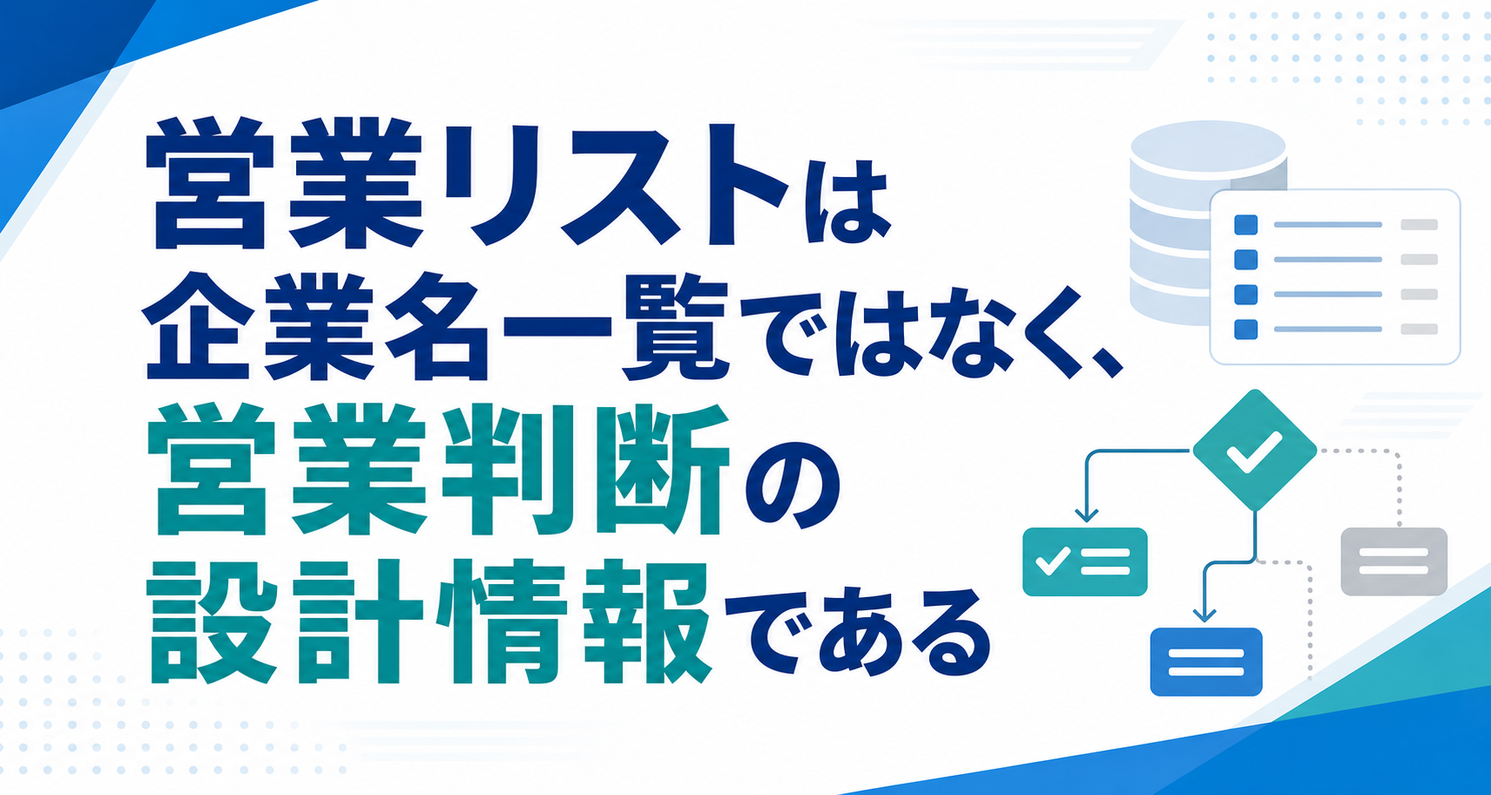
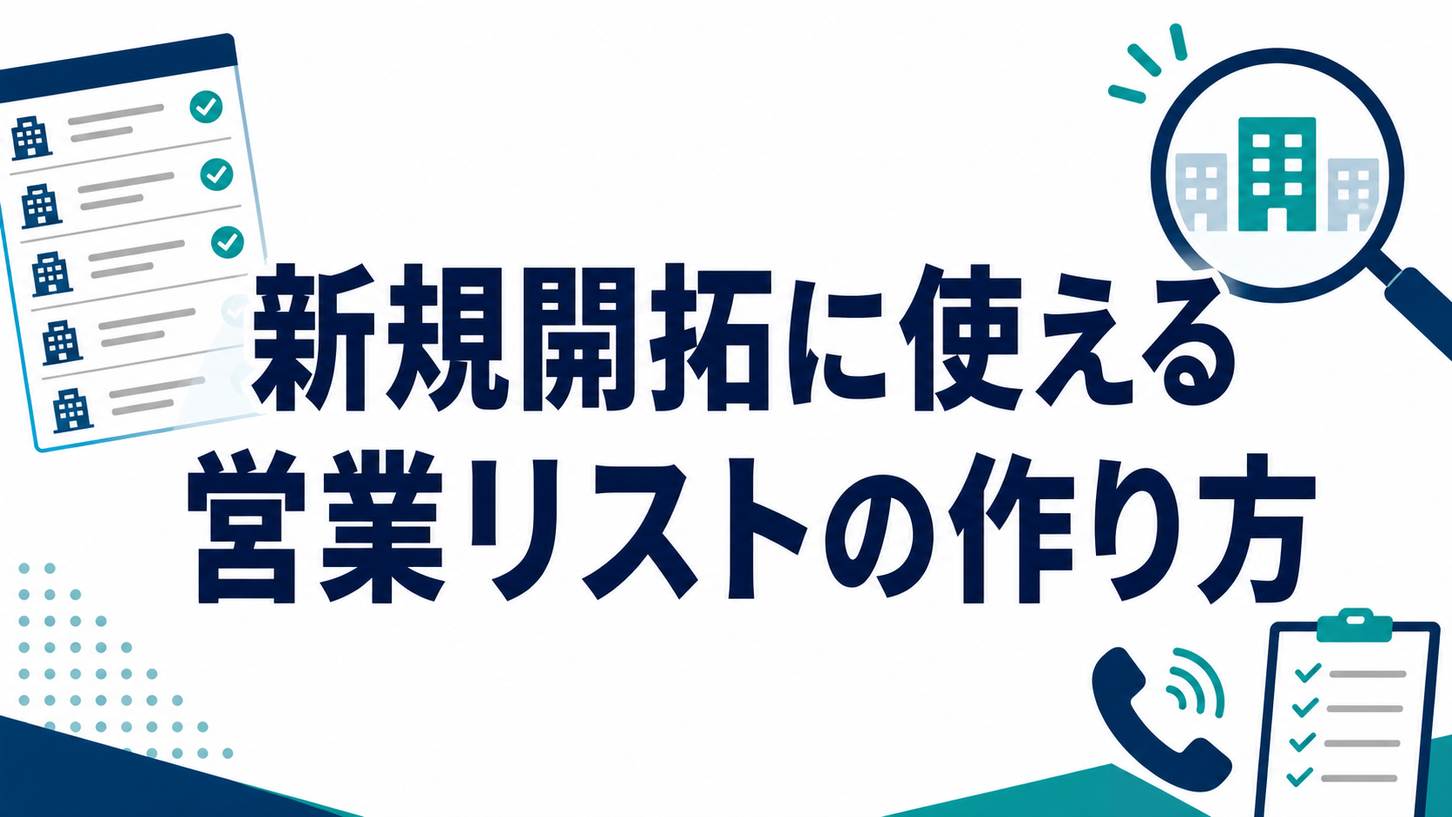
Update sales list article

diff --git a/010_営業リスト/07_最終版.html b/010_営業リスト/07_最終版.html
@@ -1,24 +1,24 @@
-<!doctype html>
+<!doctype html>
 <html lang="ja">
 <head>
   <meta charset="utf-8">
   <meta name="viewport" content="width=device-width, initial-scale=1">
   <meta name="robots" content="noindex,nofollow">
-  <title>営業リストは企業名一覧ではなく、営業判断の設計情報である</title>
+  <title>新規開拓に使える営業リストの作り方。必要項目と情報収集方法を解説</title>
   <style>
     :root { color-scheme: light; }
     body { margin: 0; background: #f6f7f9; color: #1f2933; font-family: -apple-system, BlinkMacSystemFont, "Segoe UI", sans-serif; line-height: 1.9; }
     main { max-width: 760px; margin: 0 auto; padding: 48px 20px 72px; background: #fff; min-height: 100vh; box-sizing: border-box; }
     article { width: 100%; }
-    h1 { font-size: 30px; line-height: 1.45; margin: 0 0 32px; letter-spacing: 0; color: #111827; }
+    h1 { font-size: 30px; line-height: 1.45; margin: 0 0 28px; letter-spacing: 0; color: #111827; }
     h2 { font-size: 24px; line-height: 1.55; margin: 52px 0 18px; letter-spacing: 0; color: #111827; }
     h3 { font-size: 18px; line-height: 1.6; margin: 32px 0 12px; letter-spacing: 0; color: #111827; }
     p { margin: 0 0 18px; }
     ul, ol { margin: 0 0 24px 1.4em; padding: 0; }
     li { margin: 0 0 8px; }
     a { color: #0f66d0; overflow-wrap: anywhere; }
-    img { display: block; height: auto; max-width: 100%; margin: 28px auto; border: 0; }
-    article > p:first-child img { margin-top: 0; margin-bottom: 34px; }
+    img { display: block; width: auto; height: auto; max-width: 100%; margin: 28px auto; border: 0; }
+    article > p:first-of-type img { margin-top: 0; margin-bottom: 34px; }
     @media (max-width: 640px) {
       main { padding: 28px 16px 56px; }
       h1 { font-size: 24px; }
@@ -30,163 +30,122 @@
 <body>
   <main>
     <article>
-      <h1>営業リストは企業名一覧ではなく、営業判断の設計情報である</h1>
-<p><img src="画像/アイキャッチ.png" alt="営業リストは企業名一覧ではなく、営業判断の設計情報である"></p>
+      <h1>新規開拓に使える営業リストの作り方。必要項目と情報収集方法を解説</h1>
+<p><img src="画像/アイキャッチ.png" alt="新規開拓に使える営業リストの作り方。必要項目と情報収集方法を解説"></p>
 <p>みなさんこんにちは、Valorize AI代表の鈴木創也です。</p>
-<p>営業リストを作ったのに、営業活動に活かしきれていない。</p>
-<p>この悩みは、単にリストの件数が足りないから起きているわけではありません。企業名や電話番号を集めても、誰に、なぜ、どの順番で、どの文脈で接触するのかが決まっていなければ、営業担当者は結局、一件ずつ手探りで判断することになります。</p>
-<p>営業リストは、企業名を並べた一覧ではありません。本来は、次の営業判断を支えるための設計情報です。</p>
-<p>この記事では、営業リストとは何か、作成前に何を決めるべきか、どの項目を持つべきか、情報収集と管理で何に注意すべきかを整理します。最後には、営業リストを「作って終わり」にせず、営業判断に使える状態へ近づける考え方までお伝えします。</p>
+<p>営業リストは、件数を増やせば新規開拓の成果につながるものではありません。ターゲット条件が曖昧なまま企業を集めると、架電件数を増やしても、商材の対象外となる企業への連絡が増えてしまいます。</p>
+<p>反対に、精度を求めて一社ずつ詳しく調査してからリストへ追加していると、準備に時間を取られ、営業を始めるまでが長くなります。新規開拓用の営業リストでは、ターゲット条件を具体化し、必要な連絡先をそろえ、営業を開始できる状態まで短時間で仕上げることが重要です。</p>
+<p>この記事では、新規開拓で使う営業リストについて、作成前に決める条件、必要な項目、具体的な作り方、情報収集方法、作成後の管理・運用まで解説します。</p>
 <h2>営業リストとは</h2>
-<p>営業リストとは、新規開拓や既存顧客への追加提案などで、営業先候補を管理するための一覧です。</p>
-<p>一般的には、企業名、所在地、電話番号、Webサイト、担当部署、担当者名、メールアドレスなどをまとめたものを指します。テレアポで使う場合もあれば、問い合わせフォーム経由のアプローチ、インサイドセールス、展示会後のフォロー、休眠顧客の掘り起こしなどで使う場合もあります。</p>
-<p>近い言葉として、見込み客リスト、アタックリスト、顧客リストという表現もあります。厳密な使い分けは会社によって異なりますが、営業活動で「次に接触すべき相手」を整理するための情報群だと考えると分かりやすいです。</p>
-<p>ただし、営業リストを企業名と連絡先だけの表として扱うと、すぐに限界が来ます。</p>
-<p>たとえば、同じ業界の企業が100社並んでいても、どの企業から連絡すべきか、どの課題仮説で話すべきか、過去に接触したことがあるのか、今メールを送ってよい状態なのかが分からなければ、営業判断には使いにくいままです。</p>
-<p>営業リストは、作ること自体が目的ではありません。次の営業アクションを判断できる状態にして初めて意味があります。</p>
-<h2>営業リストが必要な理由と、作っても成果につながらない原因</h2>
-<p>営業リストが必要とされる理由は、大きく三つあります。</p>
+<p>営業リストとは、新規開拓で連絡する企業の情報をまとめた一覧です。企業名、電話番号、所在地、公式サイトURLなどを記載し、営業担当者が架電やメール送信に利用します。「見込み客リスト」や「アタックリスト」と呼ばれることもあります。</p>
+<p>営業リストと顧客管理リストは、利用する段階が異なります。営業リストは、まだ取引のない企業へ新規営業を行うためのものです。顧客管理リストは、商談中の企業や既存顧客について、商談履歴、契約内容、対応状況などを管理するために使います。</p>
+<p>新規開拓用の営業リストを作る目的は、営業担当者が毎回営業先を探さなくても、すぐに連絡を始められる状態を作ることです。そのため、企業情報を多く載せることよりも、対象企業が一定の条件で抽出され、利用する営業手段に必要な連絡先がそろっていることが重要です。</p>
+<h2>営業リストを作成するメリット</h2>
+<p>営業リストを用意すると、営業担当者が各自で営業先を探す必要がなくなり、チームで同じ対象企業へ効率よくアプローチできます。主なメリットは次の4つです。</p>
 <ul>
-<li>営業先を探す時間を減らし、接触活動に時間を使いやすくするため</li>
-<li>営業担当者ごとの情報を会社として共有しやすくするため</li>
-<li>接触履歴や反応を蓄積し、次の営業活動に活かすため</li>
+<li>営業先を一件ずつ探す時間を減らせる</li>
+<li>複数の営業担当者で対象企業を共有できる</li>
+<li>架電結果や接触履歴を蓄積できる</li>
+<li>ターゲット条件ごとの接続率やアポ率を比較できる</li>
 </ul>
-<p>営業先候補が毎回ばらばらに探されていると、担当者によって狙う企業が変わり、営業活動の振り返りも難しくなります。営業リストがあれば、少なくとも「誰に対して営業するのか」という土台をそろえられます。</p>
-<p>一方で、営業リストを作っても成果につながりにくいケースもあります。</p>
-<p>よくあるのは、次のような状態です。</p>
-<ul>
-<li>ターゲット条件が曖昧なまま企業名だけを集めている</li>
-<li>古い情報や重複した企業が残っている</li>
-<li>担当者ごとに入力項目や表記が違う</li>
-<li>受注確度や温度感の基準が人によって違う</li>
-<li>接触履歴が残っておらず、同じ企業へ重複して連絡してしまう</li>
-<li>営業リストの更新担当や更新タイミングが決まっていない</li>
-</ul>
-<p>この状態では、件数が多くても営業担当者の判断負荷は下がりません。むしろ、どの情報を信じればよいか分からず、確認工数が増えることもあります。</p>
-<p>営業リストの問題は、企業数の不足だけではありません。誰を優先し、どう接触し、どう更新するかが決まっていないことにあります。</p>
+<p>営業先と連絡先が並んでいれば、営業担当者は企業検索ではなく架電に時間を使えます。</p>
+<p>さらに、架電結果を同じリストへ記録すれば、「不通」「担当者不在」「再架電」「アポ獲得」といった状況を共有できます。業種や地域などの抽出条件も残しておけば、どの企業群で接続率やアポ率が高かったかを後から比較できます。</p>
 <h2>営業リストを作る前に決めること</h2>
-<p>営業リスト作成では、情報収集を始める前に決めるべきことがあります。</p>
-<p>先に設計しておきたいのは、営業戦略、ターゲット条件、必要件数、接触チャネル、必要項目です。</p>
-<h3>営業戦略</h3>
-<p>まず、何のために営業リストを作るのかを決めます。</p>
-<p>新規商談を増やしたいのか、特定業界を開拓したいのか、既存顧客に追加提案したいのか、展示会後のフォローを効率化したいのか。目的によって、必要な企業情報も接触方法も変わります。</p>
-<p>営業戦略が曖昧なままリストを作ると、後から「この企業は本当に対象なのか」という確認が増えます。</p>
-<h3>ターゲット条件</h3>
-<p>次に、どのような企業を対象にするのかを決めます。</p>
-<p>業種、地域、従業員規模、売上規模、利用中のサービス、拠点数、採用状況、組織課題など、商材によって見るべき条件は変わります。</p>
-<p>このとき大事なのは、対象条件だけでなく、除外条件も決めることです。対象外の企業までリストに入ると、営業担当者が一件ずつ確認しなければならなくなります。</p>
-<h3>必要件数</h3>
-<p>必要件数は、多ければよいとは限りません。</p>
-<p>商談化までの歩留まり、営業担当者の稼働、接触チャネル、フォロー回数を考えずに大量のリストを作っても、運用しきれない可能性があります。</p>
-<p>営業リストの件数は、営業活動で処理できる量と、検証したいターゲット仮説の範囲から決めるのが現実的です。</p>
-<h3>接触チャネル</h3>
-<p>電話、メール、問い合わせフォーム、SNS、紹介、展示会後フォローなど、接触チャネルによって必要な項目と注意点は変わります。</p>
-<p>メール営業であれば、メールアドレスだけでなく、送信拒否への対応や表示義務の確認が必要になります。電話であれば代表番号、部署番号、受付突破のための仮説が必要になるかもしれません。</p>
-<p>接触チャネルを決めずにリストを作ると、後から必要な項目が足りないことに気づきやすくなります。</p>
-<h3>必要項目</h3>
-<p>最後に、営業リストに入れる項目を決めます。</p>
-<p>企業名、所在地、電話番号だけで十分なのか。担当部署、担当者名、業種、規模、課題仮説、接触履歴、受注確度、優先順位まで持つのか。ここを決めずに収集を始めると、入力項目が人によってばらつきます。</p>
-<p>リスト作成前の設計が曖昧なまま情報収集を始めると、営業に使えない名簿が増えるだけになります。</p>
-<h2>営業リストに入れる項目</h2>
-<p><img src="画像/本文画像_01.png" alt="営業リストの情報項目を整理したイメージ"></p>
-<p>BtoB営業の営業リストは、項目を四つに分けると整理しやすくなります。</p>
+<p>情報を集め始める前に、営業手段、ターゲット条件、除外条件、必要件数の4点を決めます。この4点が決まれば、集めるべき情報と使う情報源が明確になります。</p>
+<h3>1. 営業手段</h3>
+<p>電話、メール、郵送など、営業リストを何に使うかを決めます。電話営業なら電話番号、メール営業ならメールアドレスが必要です。</p>
+<h3>2. ターゲット条件</h3>
+<p>どの企業へ営業するかを、情報収集時に検索できる条件へ落とし込みます。代表的な条件は、業種、地域、事業内容です。商材によって対象が変わる場合は、従業員数、売上高、拠点数なども使います。</p>
+<p>条件は「成長企業」や「営業に困っている企業」のような曖昧な表現ではなく、「東京都の法人向けIT企業」「関東に3店舗以上を展開する事業者」のように、抽出できる形で定めます。</p>
+<h3>3. 除外条件</h3>
+<p>既存顧客、競合企業、対象外地域など、営業しない企業の条件を決めます。先に除外条件を用意すれば、作成後の確認作業を減らせます。</p>
+<h3>4. 必要件数</h3>
+<p>必要件数は、営業担当者数と一定期間に連絡できる件数から逆算します。たとえば、1人が1日50件、5営業日架電するなら、1人あたり250件が目安です。複数回の架電や不通を見込む場合は、その運用方法も考慮します。</p>
+<p>作成前に、誰に、どの手段で、何件営業するかを明確にしておけば、必要な情報だけを集めて営業リストを作成できます。</p>
+<h2>営業リストに必要な項目</h2>
+<p>営業リストの項目は、多ければよいわけではありません。作成時に必要な項目、営業開始後に記録する項目、商材によって追加する項目に分けると、入力作業を増やしすぎずに済みます。</p>
+<h3>作成時に最低限入れる項目</h3>
 <ul>
-<li>法人を識別する項目</li>
-<li>接触するための項目</li>
-<li>営業判断のための項目</li>
-<li>運用管理のための項目</li>
+<li>企業名</li>
+<li>電話番号、メールアドレスなど営業手段に必要な連絡先</li>
+<li>所在地</li>
+<li>公式サイトURL</li>
+<li>抽出に使った業種、地域などの条件</li>
 </ul>
-<h3>法人を識別する項目</h3>
-<p>法人を識別する項目は、企業を正しく特定するための情報です。</p>
-<p>たとえば、法人番号、商号または名称、所在地、WebサイトURL、業種、拠点情報などです。</p>
-<p>国税庁の法人番号公表サイトでは、法人番号、商号又は名称、本店又は主たる事務所の所在地などを確認できます。法人番号は、名寄せや重複確認、所在地変更の確認などで土台になり得る情報です。</p>
-<p>国税庁 法人番号公表サイト「法人番号とは」</p>
-<p><a href="https://www.houjin-bangou.nta.go.jp/setsumei/">https://www.houjin-bangou.nta.go.jp/setsumei/</a></p>
-<p>ただし、法人番号公表サイトで分かるのは法人の基本情報です。担当者名、部署、メールアドレス、課題、導入可能性、受注確度まで確認できるわけではありません。</p>
-<h3>接触するための項目</h3>
-<p>接触するための項目は、実際にアプローチするための情報です。</p>
-<p>代表電話、部署電話、問い合わせフォームURL、メールアドレス、担当部署、担当者名、役職、SNSアカウントなどが候補になります。</p>
-<p>ここでは、単に連絡先を集めるだけでなく、どのチャネルで接触するのかを意識する必要があります。問い合わせフォーム経由のアプローチであればフォームURLが重要ですし、電話営業であれば代表番号だけでなく、受付でどの部署につないでもらうかの仮説も必要です。</p>
-<h3>営業判断のための項目</h3>
-<p>営業判断のための項目は、どの企業を優先するか、どの文脈で接触するかを決めるための情報です。</p>
-<p>たとえば、ターゲット条件への適合度、想定課題、利用中のサービス、採用状況、資金調達、事業拡大の兆候、過去反応、受注確度、優先順位などです。</p>
-<p>この項目がないと、営業担当者は企業名を見てから毎回調査し、判断することになります。営業リストを営業判断に使うためには、この層の情報が重要です。</p>
-<h3>運用管理のための項目</h3>
-<p>運用管理のための項目は、リストを継続的に使うための情報です。</p>
-<p>担当者、作成日、更新日、情報源、接触履歴、ステータス、次回アクション、重複確認状況、送信拒否や配信停止の状況などが該当します。</p>
-<p>特に、営業リストに個人名、担当者メール、名刺情報、Web行動データなどを含める場合は、取得元、利用目的、更新、安全管理の確認が必要になります。</p>
-<p>公式情報で整えられる法人情報と、自社で設計すべき営業判断情報を分けて持つことが、使える営業リストの前提になります。</p>
+<p>抽出条件は、「IT・東京都」「飲食・関東・3店舗以上」のように、どの条件で作成した企業群かを識別できる形で残します。営業結果を条件別に比較し、次回の抽出条件を見直す際に利用できます。</p>
+<h3>営業開始後に記録する項目</h3>
+<ul>
+<li>架電日や送信日</li>
+<li>架電結果や送信結果</li>
+<li>判明した担当者名・部署</li>
+<li>再架電予定日</li>
+<li>次の担当者への申し送り事項</li>
+</ul>
+<p>担当者名や部署が事前に取得できない場合は、空欄のまま架電を開始し、会話の中で判明した情報を追加します。全企業の担当者を事前に調査してから営業を始める必要はありません。</p>
+<h3>商材によって追加する項目</h3>
+<ul>
+<li>従業員数</li>
+<li>売上高</li>
+<li>資本金</li>
+<li>拠点数</li>
+<li>設立年</li>
+</ul>
+<p>これらは、ターゲット条件として必要な場合に追加します。営業に使わない項目まで埋めず、抽出または営業結果の分析に使う項目だけを残します。</p>
+<h2>営業リストの作り方</h2>
+<p>新規営業リストは、条件を決め、必要な企業情報をまとめて取得し、対象外企業を除けば完成します。実務では次の4工程で作成します。</p>
+<p><img src="画像/本文画像_01.png" alt="ターゲット条件から企業情報と連絡先を整理して営業リストを作成する流れ"></p>
+<h3>1. ターゲット条件と必要件数を決める</h3>
+<p>業種、地域、事業内容などのターゲット条件と、既存顧客や競合などの除外条件を決めます。同時に、営業担当者が一定期間で対応できる件数から必要件数を算出します。</p>
+<h3>2. 情報収集方法を選ぶ</h3>
+<p>必要な企業の種類と件数に合う情報源を選びます。特定業界の企業を少数集めるなら業界団体や企業一覧サイト、数百社以上を条件検索するなら法人データベースや営業リスト作成ツールが候補になります。</p>
+<h3>3. 企業情報と連絡先を収集する</h3>
+<p>企業名に加え、架電に使う電話番号や公式サイトURLも取得します。複数の情報源を使う場合は、企業名の正式な商号を維持し、電話番号や住所、URLなどの入力形式をそろえて一つのリストへまとめます。</p>
+<h3>4. 重複企業と対象外企業を除く</h3>
+<p>同じ企業が複数行に入っていないかを確認し、既存顧客、競合企業、対象外地域などを除外します。最後に電話番号の欠落や明らかな誤記を確認すれば、架電を開始できます。</p>
+<p>たとえば、「東京都に所在する法人向けIT企業を500社」という条件で作る場合は、電話番号と公式サイトURLがある企業を取得し、既存顧客と競合を除きます。残った企業に連番を付ければ、営業担当者は上から順に架電できます。</p>
+<p>全企業の詳細調査や精密な順位付けは行わず、まず営業できる状態までまとめます。実際の架電結果は次回の条件設定に反映します。</p>
 <h2>営業リストの情報収集方法</h2>
-<p>営業リストの情報収集方法は、無料収集、有料購入、ツール活用、自社データ活用に分けられます。</p>
-<p>どれが絶対に優れているという話ではありません。費用、工数、鮮度、利用範囲、ターゲット適合性、法務・プライバシー上の確認事項がそれぞれ違います。</p>
-<h3>無料収集</h3>
-<p>無料収集では、企業サイト、法人番号公表サイト、業界団体サイト、展示会出展社一覧、セミナー参加情報、求人サイト、SNS、ニュース記事などを確認してリスト化します。</p>
-<p>費用を抑えやすく、自社のターゲット条件に合わせて調べやすい点が利点です。一方で、収集工数がかかり、情報の抜け漏れや表記ゆれ、更新漏れが起きやすくなります。</p>
-<p>無料で集めた情報でも、取得元、利用目的、更新方法は明確にしておく必要があります。</p>
-<h3>有料購入</h3>
-<p>有料購入では、企業データベースや営業リスト販売サービスから、条件に合う企業情報を取得します。</p>
-<p>短時間で一定件数を集めやすい一方で、件数や価格だけで判断するのは危険です。取得元、更新頻度、利用可能範囲、第三者提供に関する扱い、自社ターゲットとの適合性、重複の有無を確認する必要があります。</p>
-<p>有料だから必ず高品質とも、購入すればそのまま営業に使えるとも限りません。</p>
-<h3>ツール活用</h3>
-<p>営業リスト作成ツールやCRM/SFAは、企業情報の検索、抽出、更新、管理、重複確認を助ける手段になります。</p>
-<p>ただし、ツールはターゲット定義や営業判断を自動で完成させるものではありません。どの条件で抽出するのか、どの企業を優先するのか、どの情報を営業担当者に渡すのかは、自社側で設計する必要があります。</p>
-<p>ツールは、情報収集と管理の負荷を下げる手段として考えるのが現実的です。</p>
-<h3>自社データ活用</h3>
-<p>自社データには、名刺、問い合わせ履歴、資料請求、過去商談、展示会での接点、既存顧客情報、休眠顧客情報などがあります。</p>
-<p>自社データの強みは、過去の接触履歴や反応を含められることです。一方で、部署ごとに管理形式が違う、古い情報が残っている、利用目的が整理されていない、名寄せされていないといった課題が出やすくなります。</p>
-<p>個人情報を含むデータを扱う場合は、個人情報保護委員会のガイドラインでも示されているように、利用目的、第三者提供、正確性・最新性、安全管理などの観点を確認する必要があります。</p>
-<p>また、広告宣伝メールを送る場合は、特定電子メール法上の同意、表示義務、送信拒否対応、送信者情報の正確性も確認が必要です。Web上で公表されているメールアドレスであっても、送信拒否の表示がある場合などには注意が必要です。</p>
-<p>迷惑メール相談センター「特定電子メール法」</p>
-<p><a href="https://www.dekyo.or.jp/soudan/contents/taisaku/1-2.html">https://www.dekyo.or.jp/soudan/contents/taisaku/1-2.html</a></p>
-<p>情報源を選ぶときは、件数や価格だけでなく、取得元、利用目的、更新頻度、利用可能範囲、送信拒否対応まで確認する必要があります。</p>
-<h2>作成した営業リストの管理・運用方法</h2>
-<p><img src="画像/本文画像_02.png" alt="営業リストを更新し優先順位を見直すイメージ"></p>
-<p>営業リストは、作成した時点ではまだ完成していません。</p>
-<p>営業活動で使い続けるには、更新、重複排除、表記ゆれ整理、部署間共有、接触履歴管理、受注確度の基準化が必要です。</p>
-<h3>更新する</h3>
-<p>企業情報は変わります。社名、所在地、担当者、部署、問い合わせフォーム、採用状況、事業内容は、時間が経つほど古くなる可能性があります。</p>
-<p>すべてのデータを常に最新にするのは現実的ではありません。重要なのは、利用目的に応じて、どの情報を、どの頻度で、誰が更新するかを決めることです。</p>
-<p>個人データを扱う場合も、利用目的の達成に必要な範囲で正確性・最新性を保つ観点が出てきます。営業リストの更新は、営業効率だけでなく、情報管理の面でも重要です。</p>
-<h3>重複と表記ゆれを減らす</h3>
-<p>同じ企業が複数行に分かれていると、重複接触や履歴分散が起きやすくなります。</p>
-<p>株式会社の有無、旧社名、支店名、所在地の表記、法人番号の有無などで、同じ企業が別企業のように見えることがあります。法人番号、商号、所在地、WebサイトURLなどを確認キーとして使うと、重複確認の精度を上げやすくなります。</p>
-<p>ただし、法人番号だけであらゆる名寄せが完了するわけではありません。グループ会社、事業所、支店、ブランド名など、営業上は別管理した方がよいケースもあります。</p>
-<h3>部署をまたいで共有する</h3>
-<p>営業リストは、営業部門だけで閉じるとは限りません。</p>
-<p>マーケティングが獲得したリード、インサイドセールスの接触履歴、フィールドセールスの商談結果、カスタマーサクセスが持つ既存顧客情報などが分断されると、同じ企業に対する理解がばらばらになります。</p>
-<p>共有するには、入力項目、ステータス、更新ルール、担当者、閲覧権限を決める必要があります。Excelやスプレッドシートで管理するのか、CRM/SFAや専用ツールで管理するのかは、件数、関係者数、更新頻度、セキュリティ要件によって選ぶべきです。</p>
-<h3>受注確度と優先順位を決める</h3>
-<p>営業リストを営業活動に使うには、どの企業から接触するかを決める必要があります。</p>
-<p>受注確度や温度感の基準がないと、担当者ごとの感覚で優先順位が変わります。たとえば、ターゲット条件への適合度、直近の行動、過去接触、課題仮説、導入タイミング、接触可能性などを組み合わせて、A、B、Cのような簡単なランクを付ける方法があります。</p>
-<p>ここで重要なのは、ランク付けそのものではなく、判断基準を共有することです。</p>
-<p>営業リストは、一度作った時点では未完成です。更新と運用ルールによって、営業に使える状態を保つ必要があります。</p>
-<h2>営業リストを営業判断に使える状態にする</h2>
-<p>営業リストの最終目的は、企業情報を持つことではありません。</p>
-<p>誰を優先し、どの文脈で、どの順番で接触するかを判断できる状態にすることです。</p>
-<p>そのためには、営業リストを次のように見直す必要があります。</p>
+<p>情報収集方法は、集めたい企業の種類、必要件数、予算、納期によって選びます。各方法について、連絡先を取得できるか、情報が更新されているか、利用条件に問題がないかを確認することが重要です。</p>
+<h3>業界団体や企業一覧サイト</h3>
+<p>特定業界の企業を集める方法です。電話番号がない場合は公式サイトで補完します。費用を抑えやすい一方、転記件数が多いと時間がかかります。</p>
+<h3>企業の公式サイト</h3>
+<p>電話番号、所在地、事業内容などを確認できます。一社ずつ閲覧するため、大量収集には向きません。他の情報源で企業名を取得した後、連絡先の補完に使います。</p>
+<h3>Web電話帳や店舗情報サイト</h3>
+<p>地域や業種で店舗・事業所を探す場合に適しています。電話番号を取得しやすい反面、本社と店舗の混在や古い情報に注意が必要です。</p>
+<h3>展示会やイベントの出展企業一覧</h3>
+<p>特定テーマに関係する企業をまとめて見つけられます。電話番号がなければ補完し、業種や事業内容などの条件で対象企業を絞ります。</p>
+<h3>法人データベースや営業リスト作成ツール</h3>
+<p>利用者が業種、地域、企業規模などの条件を設定し、自社で企業を検索・抽出する方法です。条件を変えながら繰り返し利用できるため、定期的に営業リストを作成する場合に向いています。契約前には、取得できる項目、更新頻度、出力件数、データの利用範囲を確認します。</p>
+<h3>営業リストの購入</h3>
+<p>販売会社へターゲット条件と必要件数を伝え、完成した営業リストを単発で受け取る方法です。自社で検索や抽出の操作をする必要がないため、短期間で必要件数を確保したい場合に向いています。ただし、納品後に条件を変更したり、新しい情報へ更新したりする場合は、再依頼や再購入が必要になることがあります。購入前には、電話番号やURLの有無、情報の取得時期、重複時の扱いを確認します。</p>
+<h3>リスト作成の外注</h3>
+<p>既存の販売リストでは対応しにくい条件や項目がある場合に、企業情報の収集や確認作業を個別に依頼する方法です。対象条件、必要項目、情報源、確認方法、納品形式を事前に決めます。購入が完成データを受け取る方法であるのに対し、外注は自社の要件に合わせて収集作業そのものを委託する方法です。</p>
+<h2>営業リストを作成するときの注意点</h2>
+<p>営業リストは、架電前に全件を詳しく調査するよりも、営業を止める問題がないかを効率よく確認することが重要です。</p>
 <ul>
-<li>ターゲット条件に合っているか</li>
-<li>今接触する理由があるか</li>
-<li>過去にどのような接触をしたか</li>
-<li>どのチャネルで接触するのが自然か</li>
-<li>どの情報を根拠に優先順位を付けるか</li>
-<li>送ってよい文面か、ブランド上問題がないか</li>
+<li><strong>古い電話番号や廃業企業が含まれている</strong><br>情報の取得日を残し、明らかな不通や閉鎖が判明した企業は利用対象から外します。全件を再調査するのではなく、営業結果を受けて更新します。</li>
+<li><strong>同じ企業が重複している</strong><br>企業名だけでなく、電話番号、所在地、公式サイトURLなどを組み合わせて確認します。法人番号は、取得できる場合に名寄せの補助として利用できます。</li>
+<li><strong>既存顧客や対象外企業が混ざっている</strong><br>既存顧客一覧や競合一覧と照合し、営業開始前に除外します。除外理由も残しておけば、次回のリスト作成で同じ企業が再び入ることを防げます。</li>
+<li><strong>表記方法が統一されていない</strong><br>企業名は前株・後株を含む正式な商号を維持します。そのうえで、電話番号のハイフン、住所の都道府県表記、URLの形式、架電結果の選択肢など、検索や集計に使う項目の入力形式を統一します。</li>
+<li><strong>営業手段に必要な連絡先がない</strong><br>電話営業なら電話番号がない企業を架電リストへ入れないなど、必須項目の欠落を確認します。不足分を調べる対象は、必要な企業だけに絞ります。</li>
+<li><strong>企業と店舗・事業所が混在している</strong><br>法人単位で営業するのか、店舗・事業所単位で営業するのかを決めます。単位が混在すると、本社と複数の店舗へ別々の担当者が架電するなど、同一法人への重複架電が起こりやすくなります。</li>
+<li><strong>情報の取得元と取得日が分からない</strong><br>情報の取得元と取得日を記録します。連絡先が古いと判明したときに、どの情報を確認し直すべきか判断しやすくなり、次回の更新作業にも利用できます。</li>
 </ul>
-<p>ここまで考えると、営業リスト作成は単なるデータ収集ではなく、営業前工程の設計になります。</p>
-<p>人手だけで情報収集、整理、重複確認、優先順位付け、企業ごとの事前調査、文面作成を続けると、更新が遅れたり、接触すべき企業の判断が属人的になったりしやすくなります。営業リストを継続的に使うなら、収集と整理を仕組み化する視点が必要です。</p>
-<p>営業リストを使える状態にするには、企業を集めるだけでなく、どの企業に、どの文脈で接触するかまで前工程でそろえる必要があります。</p>
-<p>その選択肢の一つとして、Valorize AIでは Sales Trigger を提供しています。Sales Triggerは、500万件の企業データをもとに、ターゲット選定、リスト作成、顧客情報調査、提案文やアプローチ文面作成、商談獲得までの流れを支援するサービスです。文面の最終確定は人間ができるように設計されています。</p>
+<p>営業開始前には、連絡先の有無、重複、対象外企業の混入、管理単位、入力形式を確認します。あわせて取得元と取得日を残しておけば、架電後の修正や次回の更新も進めやすくなります。</p>
+<h2>作成した営業リストの管理・運用方法</h2>
+<p>少人数ならExcelやスプレッドシートでも管理できます。複数人で使う場合は、担当者、更新日時、架電結果の入力列を固定します。</p>
+<p>企業数や担当者数が増え、商談情報まで一元管理する必要がある場合は、CRMやSFAの利用が候補になります。選定時は、複数の担当者が同じ企業情報と対応履歴を確認でき、架電結果を統一した形式で記録できるかを確認します。</p>
+<p>運用では、架電や送信が終わるたびに結果を更新します。「不通」「担当者不在」「再架電」「対象外」「アポ獲得」など、選択肢をあらかじめ決めておくと集計しやすくなります。自由記述だけにすると、担当者ごとに表現が変わり、後から比較できません。</p>
+<p>最初から企業ごとの精密な優先順位を付ける必要はありません。まず同じ条件の企業群へ順に営業し、接続率やアポ率を確認します。その結果、「特定業種で接続率が高い」「一定規模の企業でアポが多い」と分かれば、次回はその条件の企業群を多めに抽出します。</p>
+<p><img src="画像/本文画像_02.png" alt="架電結果を記録し条件別に分析して次回の営業リストへ反映する流れ"></p>
+<p>営業リストの作成を効率化しても、その後の企業調査や提案文の作成、アプローチを営業担当者が一件ずつ行えば、新規開拓には引き続き多くの工数がかかります。リスト作成から実際の営業活動までを一連の流れとして整えることが必要です。</p>
+<p>Sales Triggerは、500万件の企業データを基盤に、ターゲット選定、リスト作成、顧客情報調査、提案文作成、メール送信と問い合わせフォーム経由のアプローチ、商談獲得までを自動化・支援するサービスです。送信前には人が文面を確認し、最終確定できます。</p>
 <p><a href="https://salestrigger.valorize-ai.com/">https://salestrigger.valorize-ai.com/</a></p>
-<p>一方で、営業リストをどう使うかの最終判断は人が担う必要があります。</p>
-<p>ターゲット仮説、除外条件、接触可否、法務・ブランドリスク、優先順位の最終判断、営業文脈の妥当性は、人間が確認すべき領域です。AI利用では、リスク管理や透明性などの観点も確認が必要です。</p>
-<p>営業リストを成果に近づけるには、収集や整備を仕組み化しながら、ターゲット仮説、接触可否、優先順位、営業文脈の最終判断を人が担う必要があります。</p>
+<p>営業リストは、一度完成させて終わりではありません。営業結果を記録し、成果の良い条件を次回のリストへ反映するとともに、リスト作成後の調査やアプローチまで含めて新規開拓の流れを整えることが重要です。</p>
 <h2>まとめ</h2>
-<p>営業リストは、企業名や連絡先を集めた一覧ではありません。</p>
-<p>営業リストを営業活動に使える状態にするには、定義、準備、項目、収集、管理、運用改善を一つながりで設計する必要があります。</p>
-<p>作成前には、営業戦略、ターゲット条件、必要件数、接触チャネル、必要項目を決めます。項目は、法人を識別する項目、接触するための項目、営業判断のための項目、運用管理のための項目に分けて整理します。</p>
-<p>情報収集では、無料収集、有料購入、ツール活用、自社データ活用を、優劣ではなく用途と制約で選びます。取得元、利用目的、送信拒否、表示義務、更新、安全管理も確認します。</p>
-<p>作成後は、更新、重複排除、表記ゆれ整理、部署間共有、接触履歴管理、受注確度と優先順位付けを続けます。</p>
-<p>営業リストは企業名一覧ではなく、次の営業判断を支える設計情報として作り、更新し続ける必要があります。作って終わりではなく、営業戦略に合わせて見直し続ける営業基盤として扱うことが大切です。</p>
+<p>新規開拓用の営業リストを作るときは、最初に営業手段、ターゲット条件、除外条件、必要件数を決めます。その後、必要な企業情報と連絡先を収集し、重複企業、既存顧客、対象外企業を除けば、架電を始められます。</p>
+<p>作成時に必要なのは、企業名、連絡先、所在地、公式サイトURL、抽出条件などです。担当者名や営業結果は、架電後に判明した情報を追加していけば問題ありません。企業規模なども、抽出や分析に使う場合だけ追加します。</p>
+<p>全企業へ個別調査を行い、細かな順位を付けてから営業を始めると、リスト作成に時間がかかります。まずは一定の条件に合う企業へ順番に営業し、接続率やアポ率を企業群ごとに比較してください。その結果を次回の抽出条件へ反映することが、営業リストを継続的に改善する基本です。</p>
 
     </article>
   </main>

diff --git a/index.html b/index.html
@@ -206,8 +206,8 @@
           <div class="article-meta">ナレッジ記事 / アポ取り営業 / 2026-06-24</div>
         </li>
         <li class="article-item">
-          <a href="010_営業リスト/07_最終版.html">010｜営業リストは企業名一覧ではなく、営業判断の設計情報である</a>
-          <div class="article-meta">営業リスト / 営業 リスト / 2026-06-25</div>
+          <a href="010_営業リスト/07_最終版.html">010｜新規開拓に使える営業リストの作り方。必要項目と情報収集方法を解説</a>
+          <div class="article-meta">営業リスト / 営業 リスト / 2026-06-26</div>
         </li>
       </ul>
     </details>
